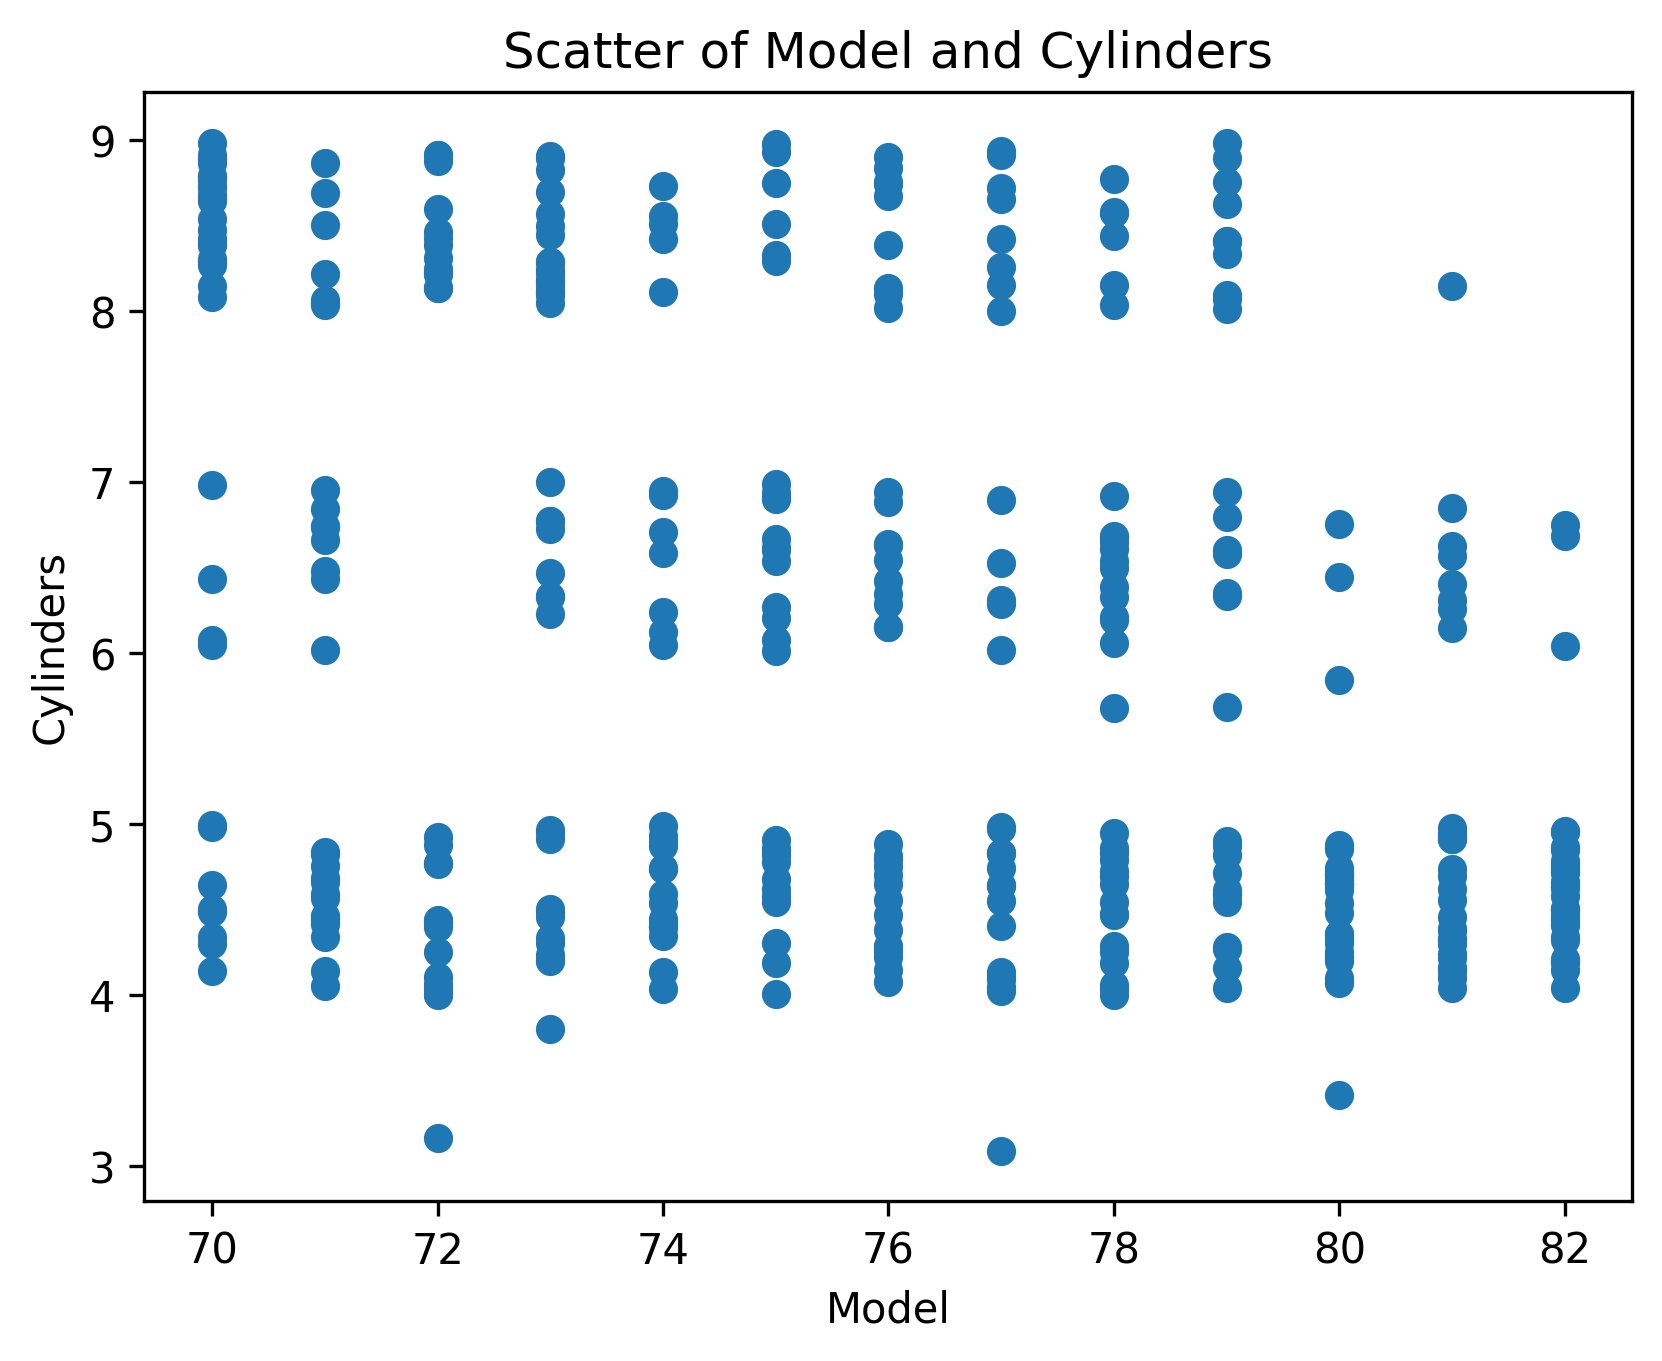
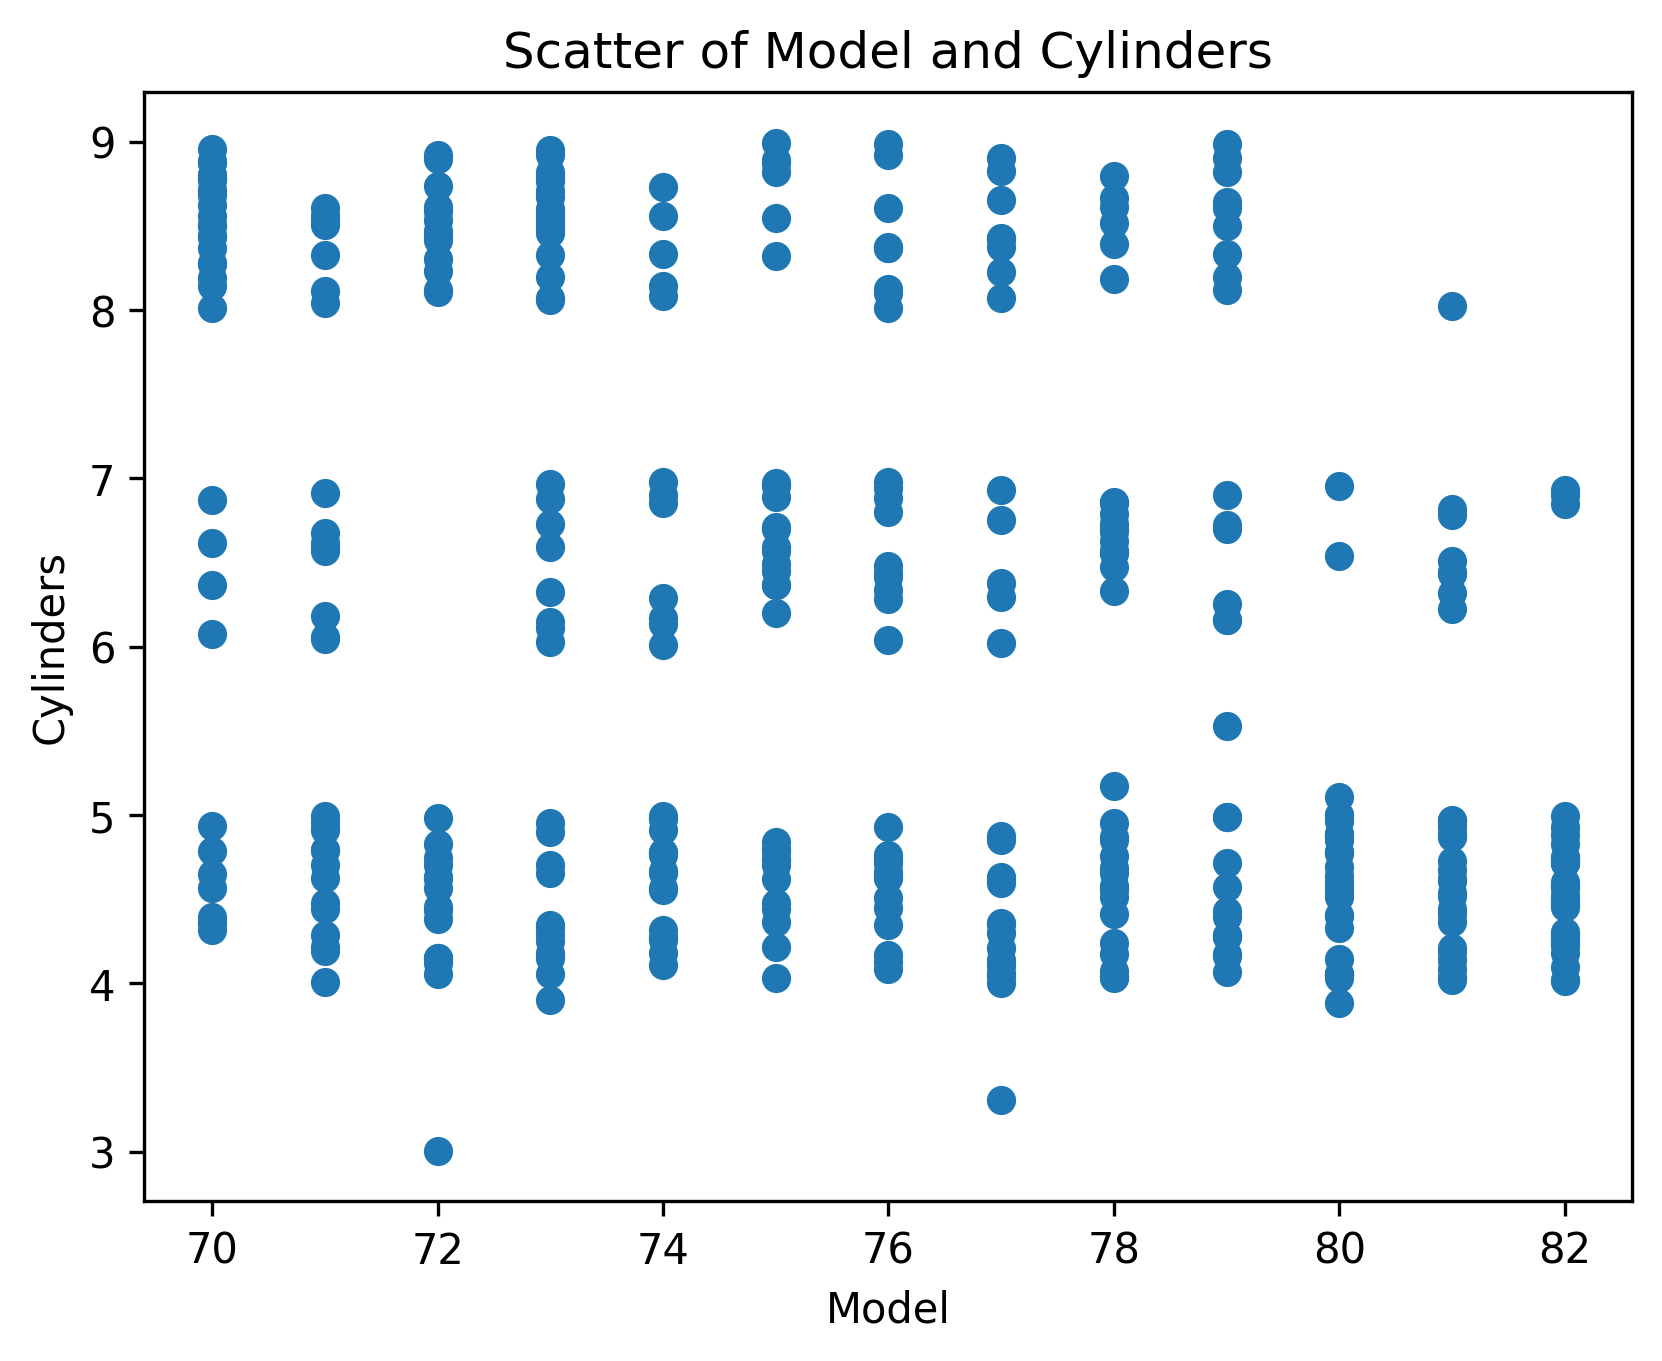
rm sns

diff --git a/Lab_3_carmpg.py b/Lab_3_carmpg.py
@@ -8,7 +8,6 @@ Created on Tue Jan 27 21:53:34 2015
 #################################### Read the data ############################
 import pandas as pd
 from pandas import DataFrame, Series
-import seaborn as sns
 import numpy as np
 import matplotlib.pyplot as plt
 
@@ -136,10 +135,12 @@ print("He so tuong quan cua MPG va Weight: {}".format(correlation(data.mpg, data
 # %%
 ################################## Q6 ######################
 
-
+# random seed
+np.random.seed(1234)
 def q6_plot():
     plt.scatter(data.model, data.cylinders +
                 np.random.random(len(data['cylinders'])))
+    # plt.grid()
     plt.xlabel('Model')
     plt.ylabel('Cylinders')
     plt.title('Scatter of Model and Cylinders')
@@ -155,6 +156,7 @@ q6_plot()
 
 def q7_plot1():
     plt.scatter(data.displacement, data.mpg)
+    # plt.grid()
     plt.ylabel('MPG')
     plt.xlabel('Displacement')
     plt.title('Scatter of MPG and Displacement')
@@ -167,6 +169,7 @@ q7_plot1()
 
 def q7_plot2():
     plt.scatter(data.horsepower, data.mpg)
+    # plt.grid()
     plt.ylabel('MPG')
     plt.xlabel('Horsepower')
     plt.title('Scatter of MPG and Horsepower')
